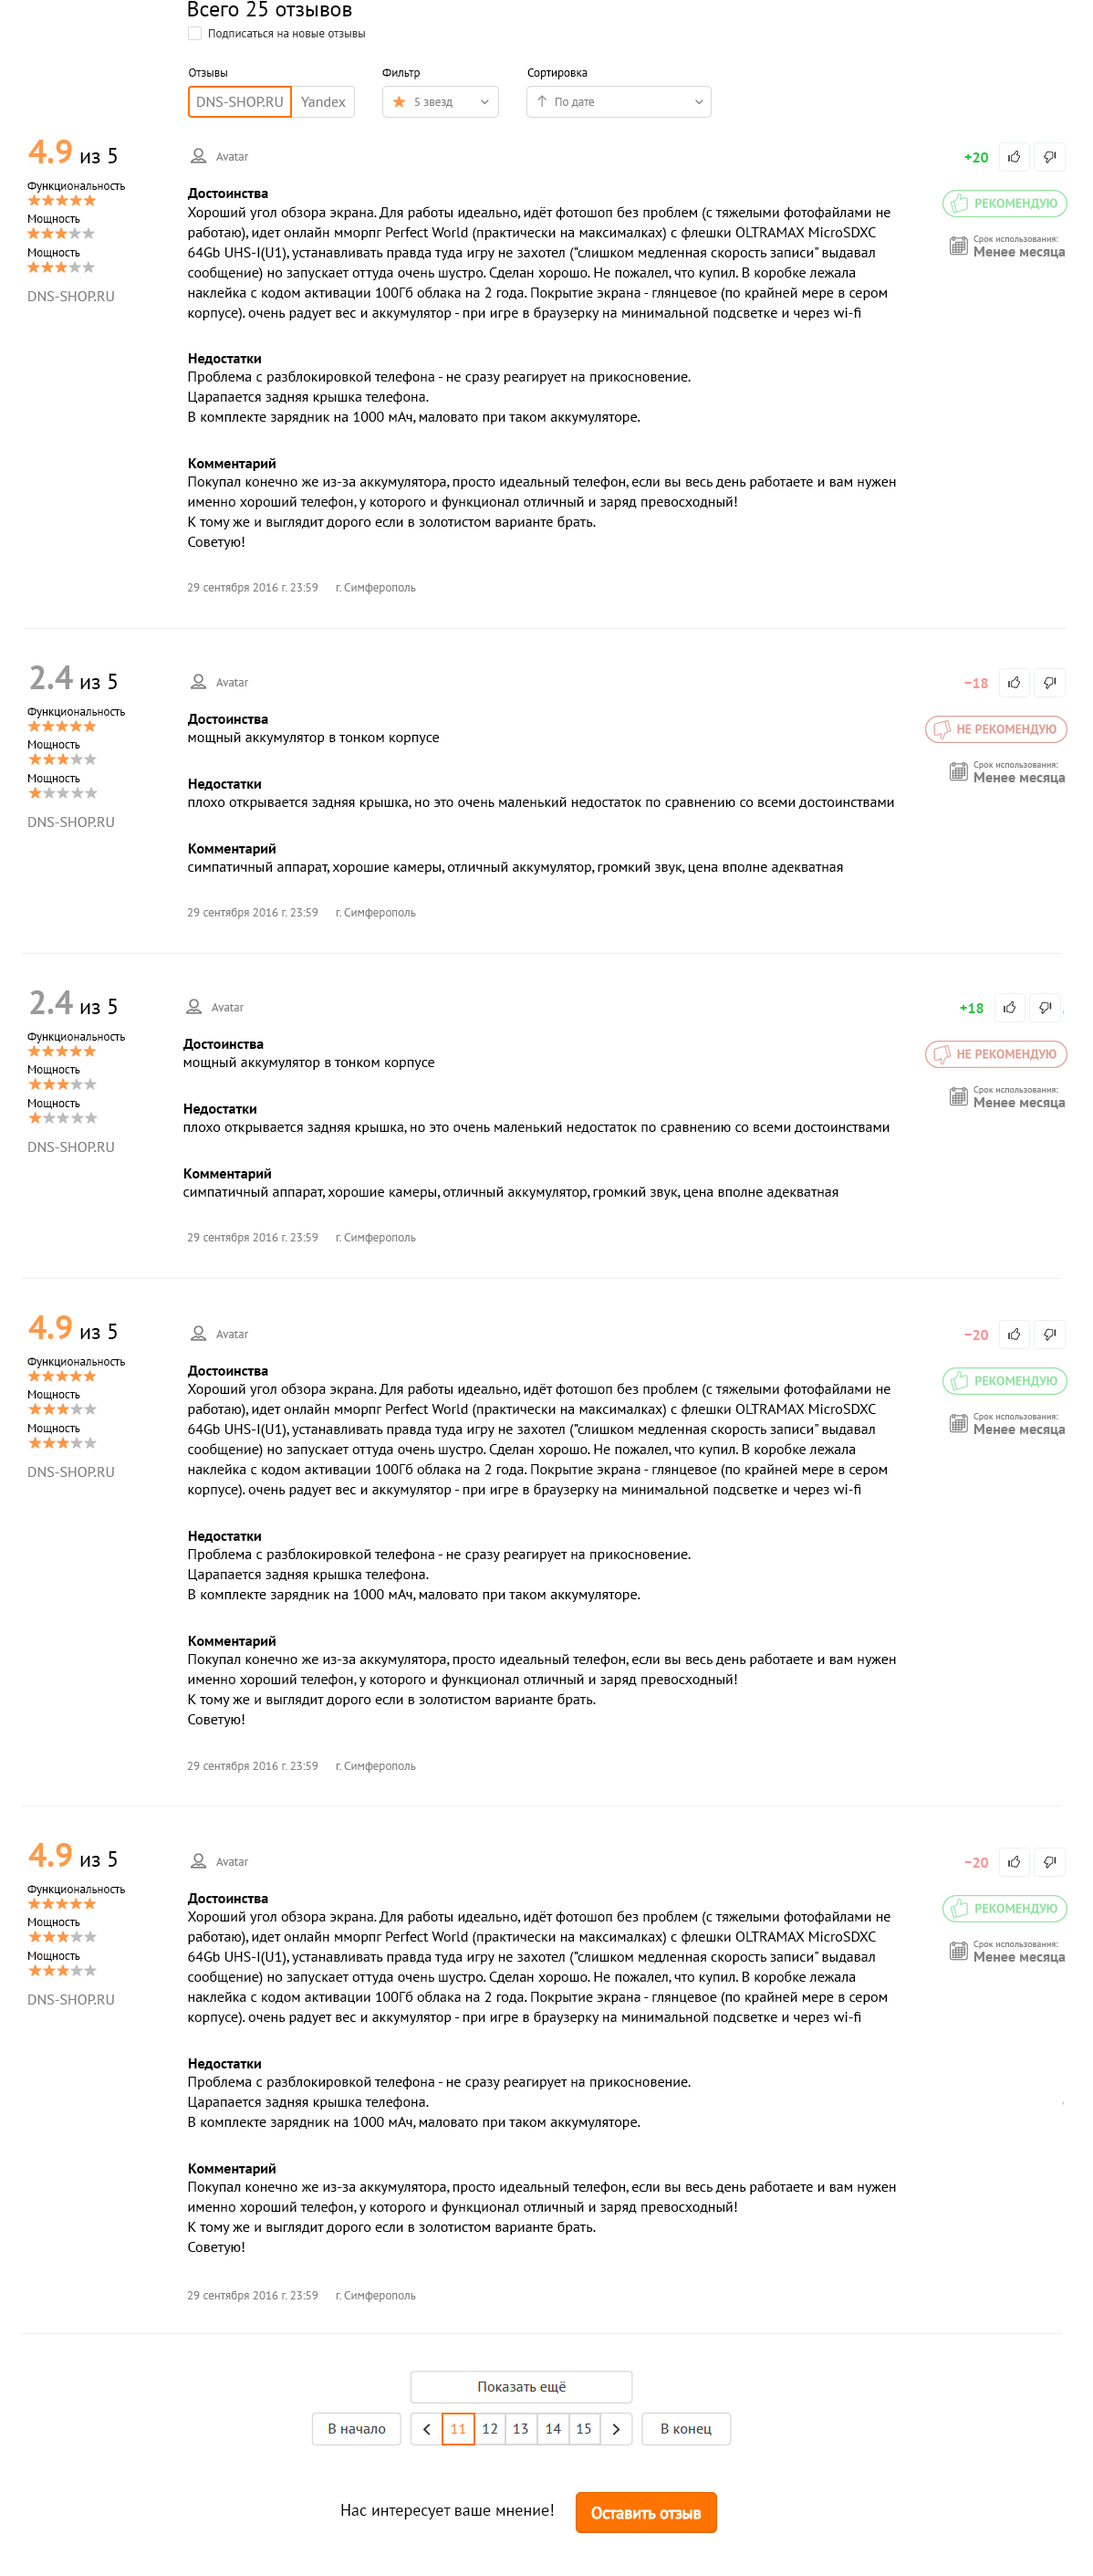
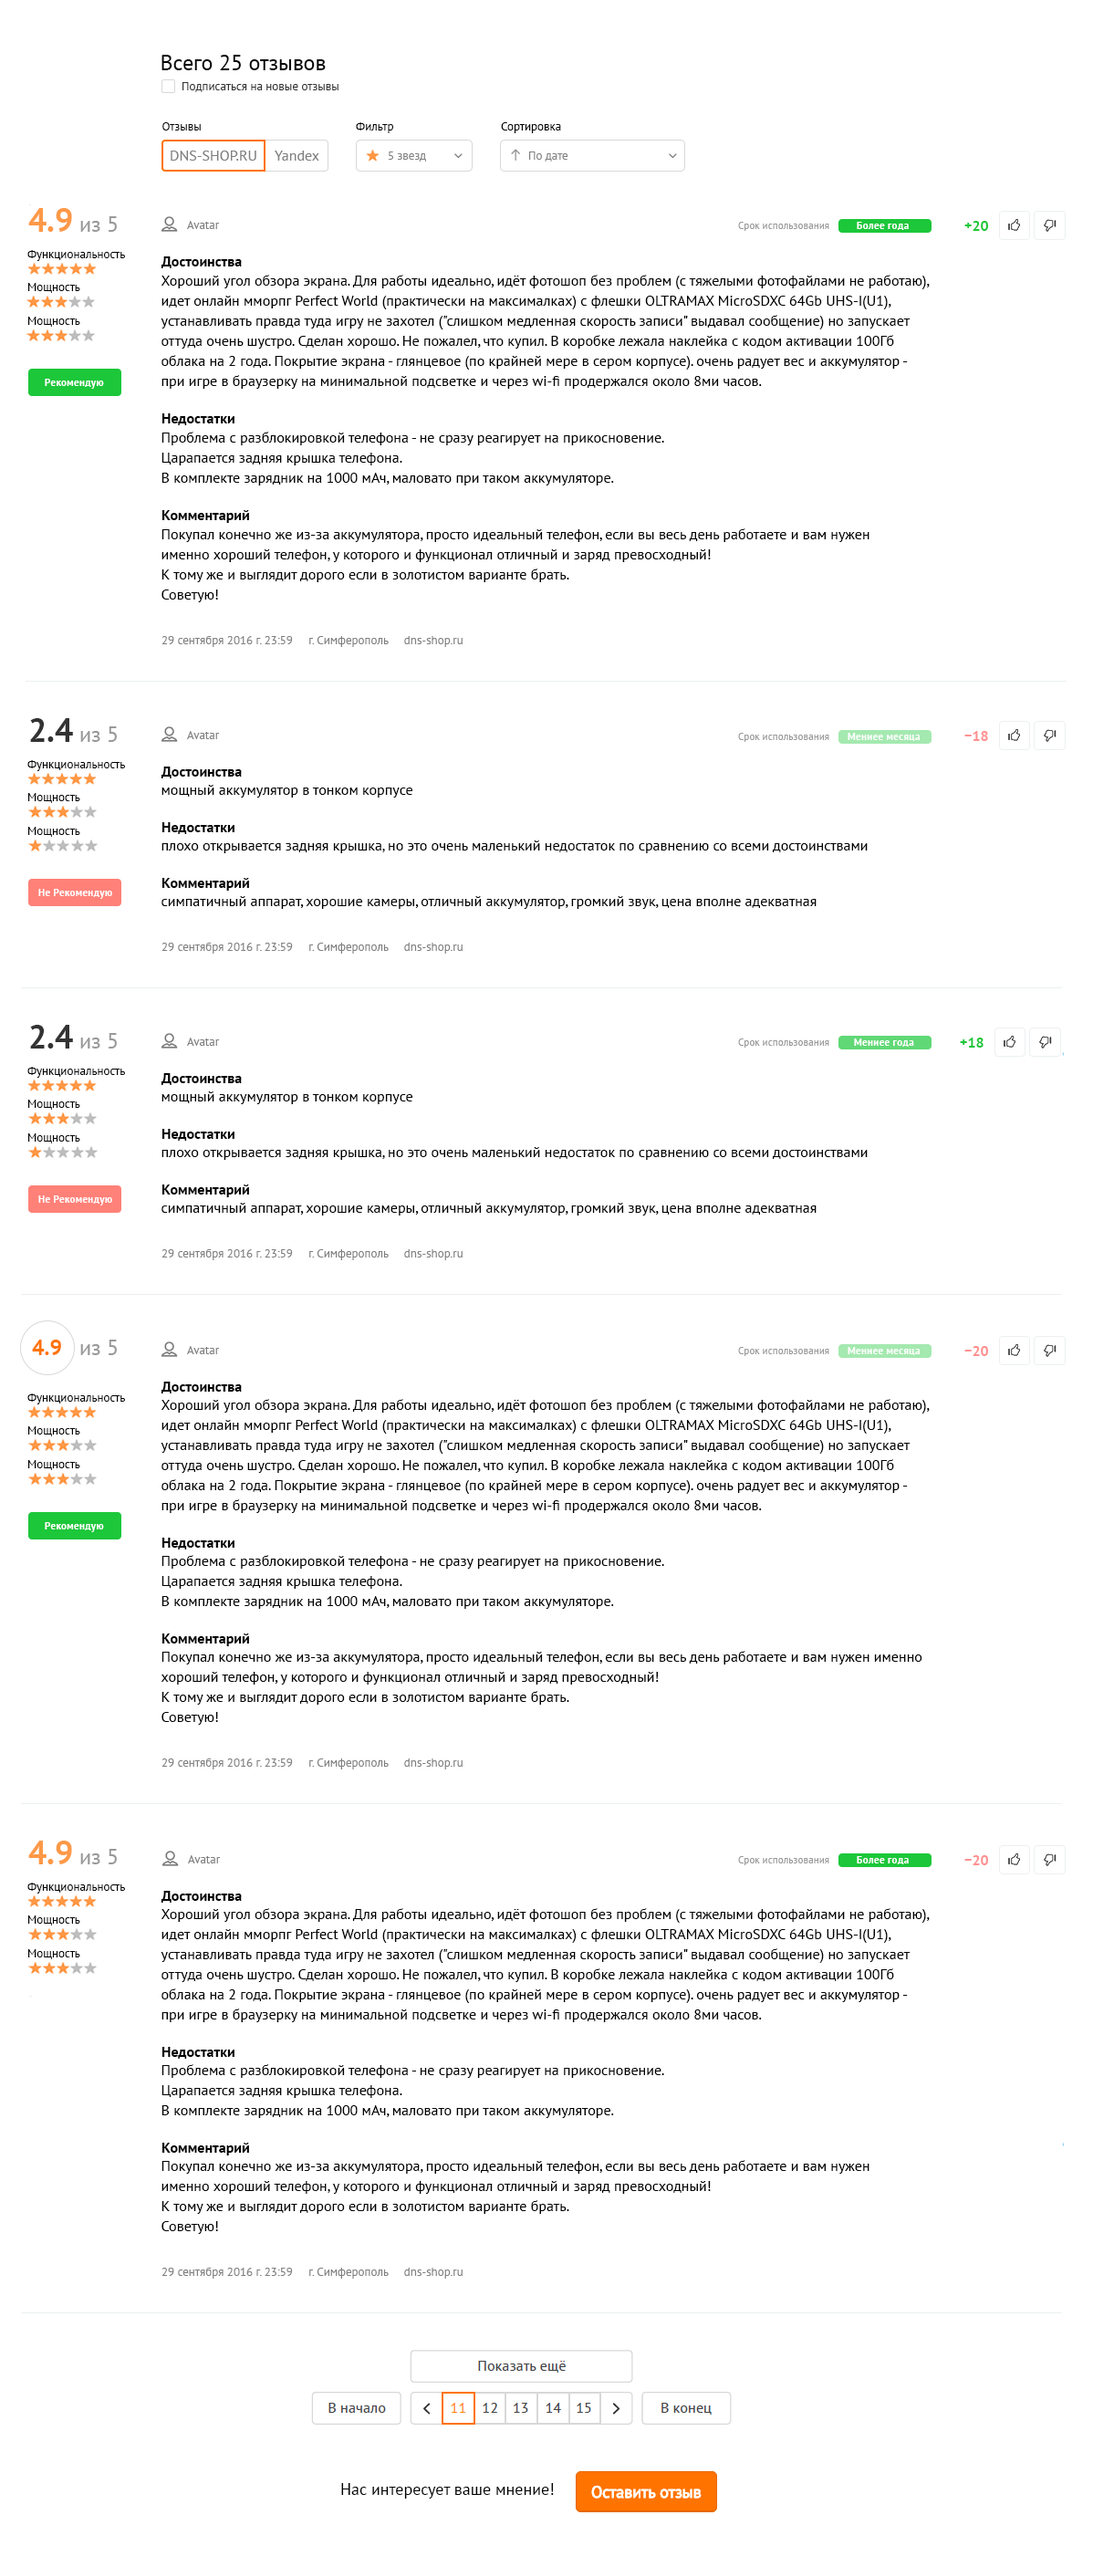
Add files via upload

diff --git a/css/style.css b/css/style.css
@@ -38,7 +38,7 @@
 }
 .content-box .overview {
     background: url(../img/not_autorized/overview.png) no-repeat;
-    height: 500px;
+    height: 474px;
     
 }
 .content-box .review-spoiler {
@@ -46,7 +46,7 @@
     position: absolute;
     width: 155px;
     height: 45px;
-    top: 470px;
+    top: 430px;
     right:437px;
     z-index: 999;
     border-radius: 5px;
@@ -55,16 +55,15 @@
 }
 .content-box .review {
     background: url(../img/not_autorized/review.png) no-repeat;
-    height: 1590px;
+    height: 1565px;
     display: none;
     position: relative;
 }
 /*url(../img/not_autorized/positive-review.png) no-repeat;*/
 .content-box .positive-review {
     background: url(../img/not_autorized/positive-review.png) no-repeat;
-    height: 347px;
-    margin:40px 0;
-    position: relative
+    height: 322px;
+    position: relative;
 }
 .positive-review-read-more {
     content: "";
@@ -82,8 +81,7 @@
 }
 .content-box .negative-review {
     background: url(../img/not_autorized/negative-review.png) no-repeat;
-    height: 347px;
-    margin:40px 0;
+    height: 323px;
 }
 .negative-review-read-more {
     content: "";
@@ -104,7 +102,7 @@
 }
 .content-box .other-review {
     background: url(../img/not_autorized/dns-review.png) no-repeat;
-    height: 2822px;
+    height: 2813px;
     position: relative;
 }
 .content-box .review-spoiler2 {
@@ -125,16 +123,17 @@
     width: 70px;
     height: 35px;
     background: none;
-    top:95px;
+    top:155px;
+    cursor: pointer;
 }
 
 .btn.dns-shop {
-    left:200px;
+    left:170px;
     width: 120px;
 }
 
 .btn.yandex {
-    left:320px;
+    left:295px;
 }
 
 .autorize {
@@ -143,6 +142,6 @@
     width: 120px;
     height: 35px;
     background: none;
-    top: 650px;
-    right: 340px;
+    top: 640px;
+    right: 470px;
 }

diff --git a/css/style-authorized.css b/css/style-authorized.css
@@ -1,18 +1,18 @@
 .content-box .overview {
     background: url(../img/autorized/overview.png) no-repeat;
-    height: 580px;
-    
+    height: 540px;
+    margin-bottom: 20px;
 }
 .content-box .review {
     background: url(../img/autorized/review.png) no-repeat;
-    height: 1590px;
+    height: 1565px;
 }
 .content-box .review-spoiler {
     content: "";
     position: absolute;
     width: 155px;
     height: 45px;
-    top: 530px;
+    top: 490px;
     right:490px;
     z-index: 999;
     border-radius: 5px;
